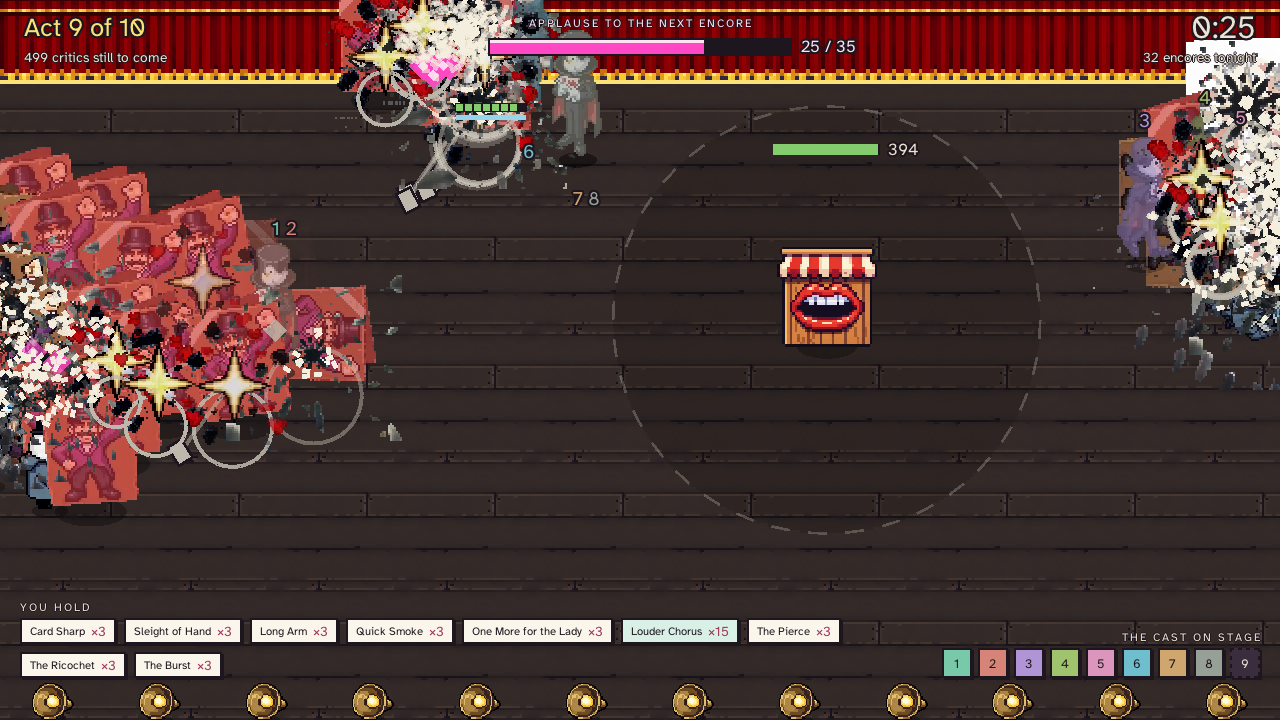
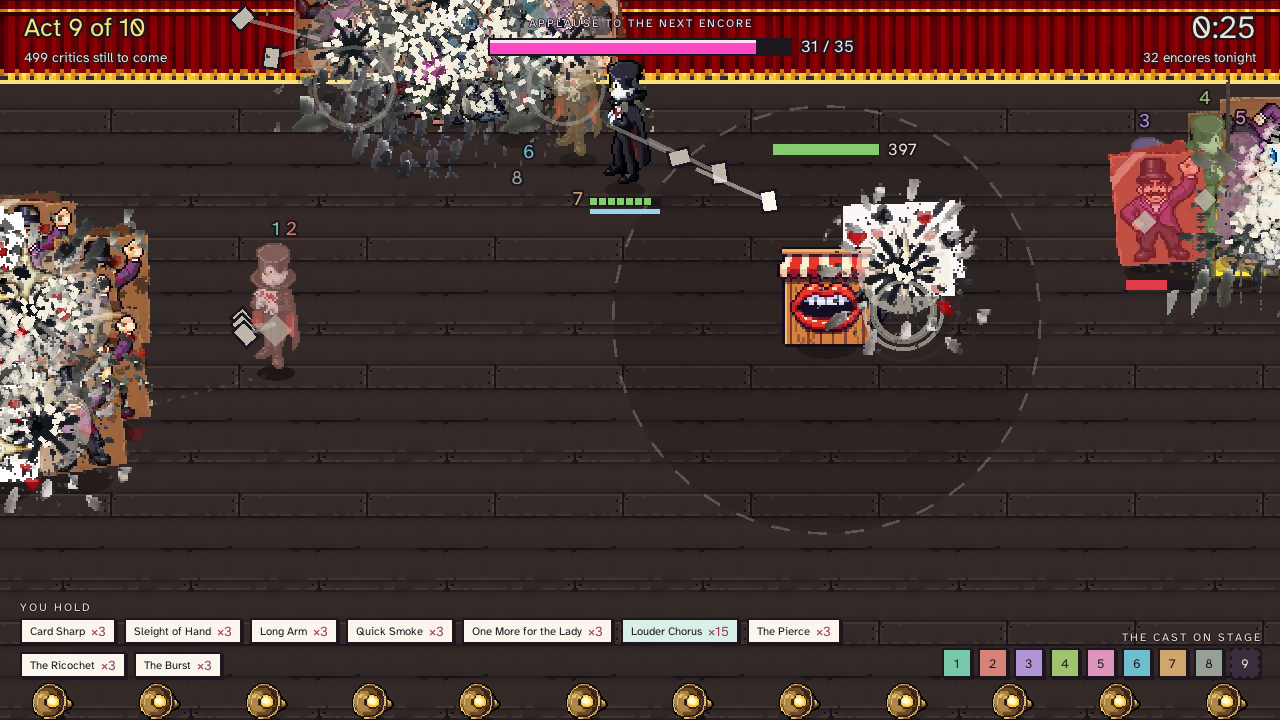
T46: the frames taken again on a main that has T45: 39570, 44000 and 45600 at both measures
Claude-Session: https://claude.ai/code/session_01V4qXWgB4bHFXePzLiSUbYT

diff --git a/docs/plan-prototype.md b/docs/plan-prototype.md
@@ -734,7 +734,7 @@ Sixteen headliners in each of the last three acts where there were hundreds, and
   - *Acts five to seven still take nothing* from the doors player (395 or so from act five to act seven on every set), and the doors player with no applause in act one ends with 311, 310 and 323.
   - *Sixteen in every act.* The number does not grow from act eight to act ten; only the hit points do. A number that grows is one more number, and was not asked for.
   - *A sound cannot be shown and a bar was judged on three frames.* Whether sixteen red cut-outs with bars read as events in play is for the owner's eye.
-- **Pins and frames.** The two pinned performances are pinned again at their ends (both meet headliners in their last acts); **both pins at the end of act three are as they were**. The capture is still seed 1 and reaches the ovation on tick 45600, and every tick the console names up to the end of act seven is the tick it was. `art/frames` and `art/frames/s2-design` (at 1.6) are taken again, the same ten ticks: the seven up to 29000 are as they were, to the byte; **39570** is the ninth act with one headliner at the second door, its bar a third gone, rival's understudies at the first door and the box office at 397; **44000** is the tenth with two headliners at the first door, bars under their feet, and the first two understudies beside them, who cannot fell them; **45600** is the ovation with 391 and an empty stage. 381 tests, from 377, in some 11 seconds.
+- **Pins and frames.** The two pinned performances are pinned again at their ends (both meet headliners in their last acts); **both pins at the end of act three are as they were**. The capture is still seed 1 and reaches the ovation on tick 45600, and every tick the console names up to the end of act seven is the tick it was. `art/frames` and `art/frames/s2-design` (at 1.6) are taken again, the same ten ticks: the seven up to 29000 are as they were, to the byte; **39570** is the ninth act with one headliner at the second door, its bar a third gone, rival's understudies at the first door and the box office at 397; **44000** is the tenth with two headliners at the first door, bars under their feet, and the first two understudies beside them, who cannot fell them; **45600** is the ovation with 391 and an empty stage. They are taken on a `main` that has T45, so the HUD is on them; **T45's note on 44000 ("some twenty enemies, most of them headliners, at the first door") is of the frame as T41 had it**: no committed frame has a late act's crowd of headliners now, since there is none to have, and the crowd at the first door on 39570 and 44000 is rival's understudies. 381 tests, from 377, in some 9 seconds.
 
 ### The road from here
 
